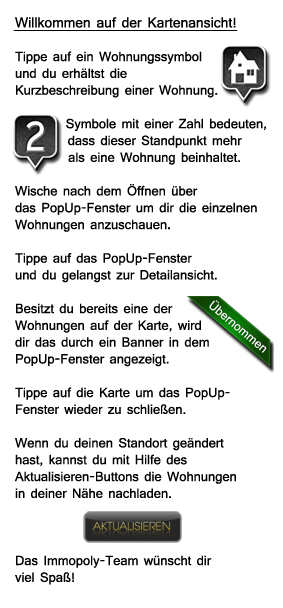
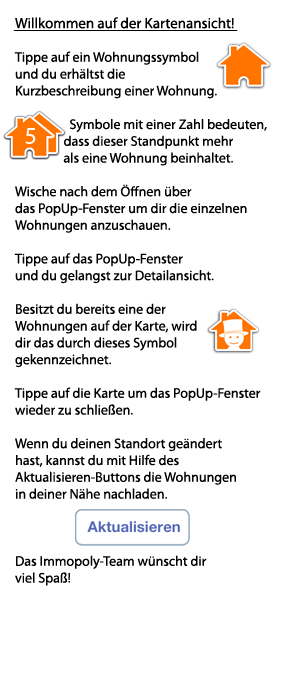
updated design of helper texts

diff --git a/ImmopolyIPhone/ImmopolyIPhone/AbstractViewController.m b/ImmopolyIPhone/ImmopolyIPhone/AbstractViewController.m
@@ -128,7 +128,7 @@
         
         case INFO_MAP:
             helperTextImage = [[UIImageView alloc]initWithImage:[UIImage imageNamed:@"infotext_map"]];
-            helperTextImage.frame = CGRectMake(0, 0, 283, 608);    
+            helperTextImage.frame = CGRectMake(0, 0, 283, 700);
         break;
             
         case INFO_PORTFOLIO:
